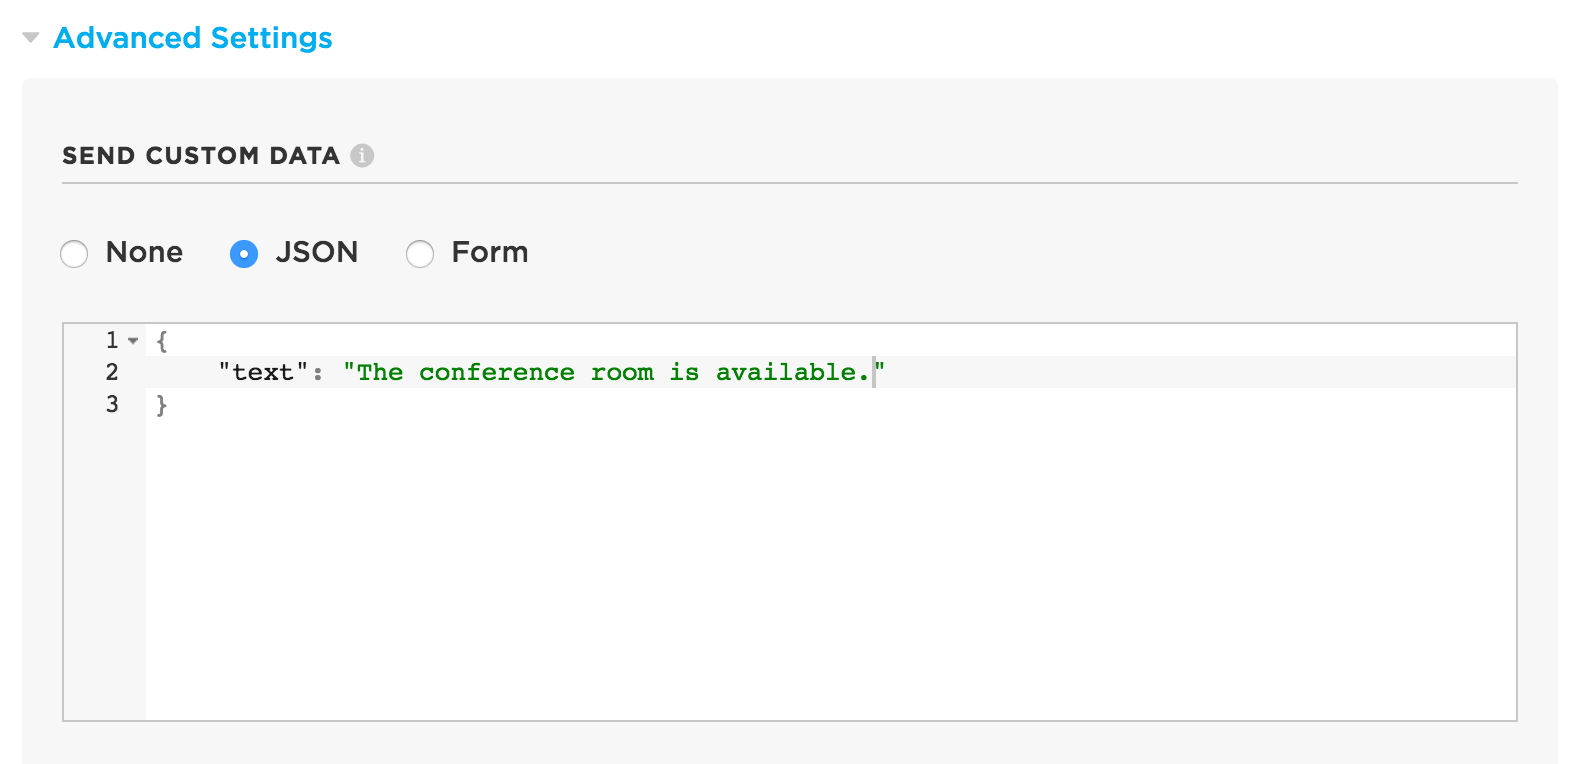
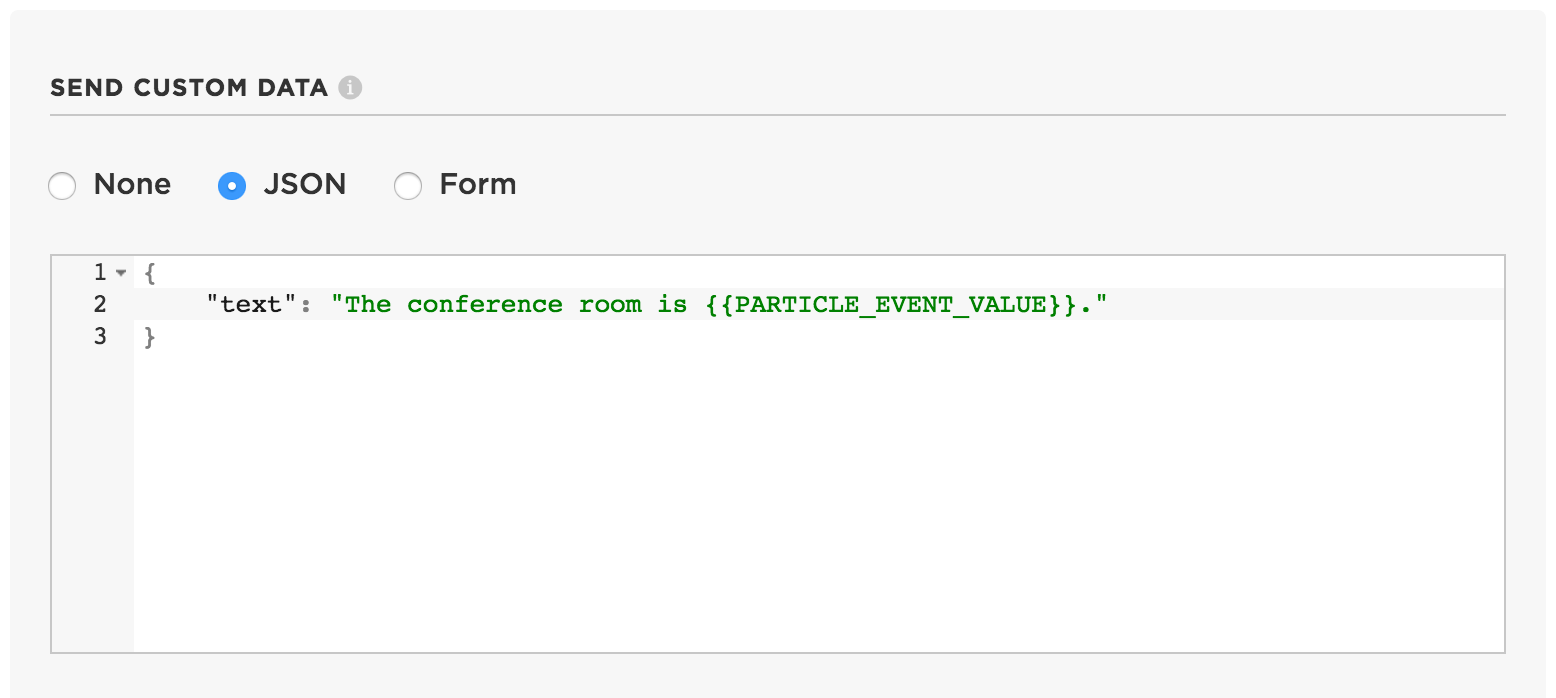
Updated tutorial 3 with new images

diff --git a/src/content/tutorials/topics/maker-kit.md b/src/content/tutorials/topics/maker-kit.md
@@ -171,9 +171,16 @@ Discover more projects at [particle.hackster.io](http://particle.hackster.io), a
 
 
 
-## Tutorial #2: Display next bus time on the OLED screen
+## Tutorial #2: Next Bus Alert
 
-Welcome to the second tutorial in our Maker Kit tutorial series. In this tutorial, you’ll use Particle webhooks to get the estimated time until the bus comes to a stop of your choosing. Then you’ll display it on the Maker Kit OLED screen with fancy marquee scrolling, which is made possible by the use of a software timer.
+In this tutorial, you’ll learn how to to get bus prediction times from the internet and display them on the Maker Kit OLED screen. You'll learn what a webhook is, and how to use it to get the prediction data to your Photon. Lastly, you'll wire up the OLED screen and display the bus alerts with fancy marquee scrolling. Here's how:
+* Discover your bus prediction URL
+* Set up a webhook
+* Subscribe to the webhook from the Photon
+* Add the library for the OLED screen
+* Wire up the OLED screen and display bus times
+
+
 
 ### Discover your prediction URL
 
@@ -280,6 +287,8 @@ First we’ll load the example code for this project:
 * Click example #2
 * Click **Use This Example**
 
+Here's the code:
+
 ```
 /*****************************************************************************
 Particle Maker Kit Tutorial #2: Next Bus Alert
@@ -287,11 +296,11 @@ Particle Maker Kit Tutorial #2: Next Bus Alert
 This tutorial uses a Particle Photon and the OLED screen from the Particle
 Maker Kit. It uses a webhook to retrieve bus prediction times from the
 NextBus Public XML feed, which must be set up first along with the webhook.
-See [http://docs.particle.io/tutorials/maker-kit/] to learn how!
-******************************************************************************/
+See http://docs.particle.io/tutorials/topics/maker-kit to learn how!
 
-#include "Adafruit_SSD1306/Adafruit_GFX.h"
-#include "Adafruit_SSD1306/Adafruit_SSD1306.h"
+NOTE: This code example requires the Adafruit_SSD1306 library to be included,
+so make sure to add it via the Libraries tab in the left sidebar.
+******************************************************************************/
 
 // use hardware SPI
 #define OLED_DC     D3
@@ -300,10 +309,11 @@ See [http://docs.particle.io/tutorials/maker-kit/] to learn how!
 Adafruit_SSD1306 display(OLED_DC, OLED_RESET, OLED_CS);
 
 String busName = "57"; // name of your bus -- FILL THIS IN!
-int leadTime = 5; // #minute you need to get to your bus -- FILL THIS IN!
+int leadTime = 5; // #minutes you need to get to your bus -- FILL THIS IN!
 int soonestBusTime = 99; // #minutes until next bus (99 is a placeholder)
-int nextSoonestBusTime = 88; // #minutes until bus after next (88 = placeholder)
-int gaveWarning = false; // to make sure we don't give bus warning too often
+int nextSoonestBusTime = 88; // #minutes until bus after next (88 is a placeholder)
+String soonestStr, nextSoonestStr; // strings for parsing
+int gaveWarning = false; // variable to make sure we don't give bus warning too often
 int  x, minX; // variables for scrolling code
 
 void getBusTimes() {
@@ -314,33 +324,31 @@ void getBusTimes() {
 // create a software timer to get new prediction times every minute
 Timer timer(60000, getBusTimes);
 
-// create another software timer to reset the warning beep so it only beeps
-// once per bus that's close by
-//Timer timer2(leadTime*60000, resetWarning);
+void setup()   {
+  // start the data retrieval timer
+  timer.start();
 
-void setup()   {                
-  Serial.begin(9600);
-
-  //retrieve the webhook data and send it to the gotNextBusData function
+  //subscribe to the get_nextbus event so we can get the data from the webhook
   Particle.subscribe("hook-response/get_nextbus/0", gotNextBusData, MY_DEVICES);
 
-  // by default, we'll generate the high voltage from the 3.3v line internally!
+  Particle.publish("get_nextbus"); // publish the event to trigger the data
+  delay(2000); // wait for data to arrive
+
+  // by default, we'll generate the high voltage from the 3.3v line internally! (neat!)
   display.begin(SSD1306_SWITCHCAPVCC);
 
   display.setTextSize(7);       // text size
   display.setTextColor(WHITE); // text color
   display.setTextWrap(false); // turn off text wrapping so we can do scrolling
-  x    = display.width(); // set x to display width
-  minX = -1500; // 1500 = 6 pixels/character * text size 7 * 15 chars * 2x slow
-
-  timer.start(); // start the data retrieval timer
+  x    = display.width(); // set scrolling frame to display width
+  minX = -1500; // 630 = 6 pixels/character * text size 7 * 15 characters * 2x slower
 }
 
 void loop() {
 
-  // this code displays next bus times on the OLED screen with fancy scrolling
+  // this code displays the next bus times on the OLED screen with fancy scrolling
   display.clearDisplay();
-  display.setCursor(x/2, 8);
+  display.setCursor(x/2, 7);
   display.print(busName);
   display.print(" in ");
   display.print(soonestBusTime);
@@ -351,7 +359,7 @@ void loop() {
   if(--x < minX) x = display.width()*2;
 
   // give a "time to leave!" beeping warning, but only once per bus
-  if(soonestBusTime < leadTime && gaveWarning == false)
+  if(soonestBusTime <= leadTime && gaveWarning == false)
   {
       for (int i=0; i<3; i++)
       {
@@ -364,7 +372,7 @@ void loop() {
   // reset the beeping warning flag so we can warn about the next bus
   else if(soonestBusTime > leadTime && gaveWarning == true)
   {
-      gaveWarning == false;
+      gaveWarning = false;
   }
 }
 
@@ -375,21 +383,18 @@ void gotNextBusData(const char *name, const char *data) {
     // put the incoming data (the XML page) into a string called "str"
     String str = String(data);
 
-    // send str to the tryExtractString function,
-    //looking for the first instance (0) of "minutes=\""
-    String soonestStr = tryExtractString(0, str, "minutes=\"", "\"");
-    // turn extracted bus time into an integer and store it in soonestBusTime
+    // send str to the tryExtractString function, looking for the first instance (0) of "minutes=\""
+    soonestStr = tryExtractString(0, str, "minutes=\"", "\"");
+    // turn the extracted bus time into an integer and store it in soonestBusTime
     soonestBusTime = soonestStr.toInt();
 
-    // send str to the tryExtractString function,
-    // looking for the second instance (1) of "minutes=\""
-    String nextSoonestStr = tryExtractString(1, str, "minutes=\"", "\"");
-    // turn extracted bus time into integer and store it in nextSoonestBusTime
+    // send str to the tryExtractString function, looking for the second instance (1) of "minutes=\""
+    nextSoonestStr = tryExtractString(1, str, "minutes=\"", "\"");
+    // turn the extracted bus time into an integer and store it in nextSoonestBusTime
     nextSoonestBusTime = nextSoonestStr.toInt();
 }
 
-// this function gets called by gotNextBusData to
-// extract the bus times from the NextBus XML page
+// this function gets called by gotNextBusData to extract the bus times from the NextBus XML page
 String tryExtractString(int matchNum, String str, const char* start, const char* end) {
     if (str == NULL) {
         return NULL;
@@ -413,15 +418,6 @@ String tryExtractString(int matchNum, String str, const char* start, const char*
 }
 ```
 
-### Fill in your bus name and lead time
-Near the top of the code above, you'll see:
-```
-String busName = "57"; // name of your bus -- FILL THIS IN!
-int leadTime = 5; // #minutes you need to get to your bus -- FILL THIS IN!
-```
-* **busName:** Later, once you set everything up, the name of your bus will display on the screen along with the prediction time. Using the example above, you would see something like `57 in 5, 15 min`. Change it to match the name of your bus.
-* **leadTime:** This is used to alert you with beeps that it's time to leave. Change it to the number of minutes you'll need in order to get comfortably to the bus stop. Don't forget to leave time to put on your shoes!
-
 ### Publish and subscribe to the webhook
 
 In the example code for this project, you’ll see
@@ -438,6 +434,15 @@ Particle.subscribe("hook-response/get_nextbus/0", gotNextBusData, MY_DEVICES);
 ```
 This line **subscribes** your device to the *get_nextbus* event, which pulls in data coming from the webhook attached to it. (The /0 tells it to reference the first chunk of data, since there are a few of them.) It then sends that data to a function called *gotNextBusData*, which parses all the XML and pulls out the tiny bits we need, which are the number of **minutes** for the next two buses. See our [publish and subscribe](https://docs.particle.io/guide/getting-started/examples/photon/#the-buddy-system-publish-and-subscribe) guide for more info on publishing and subscribing.
 
+### Fill in your bus name and lead time
+Near the top of the code above, you'll see:
+```
+String busName = "57"; // name of your bus -- FILL THIS IN!
+int leadTime = 5; // #minutes you need to get to your bus -- FILL THIS IN!
+```
+* **busName:** Later, once you set everything up, the name of your bus will display on the screen along with the prediction time. Using the example above, you would see something like `57 in 5, 15 min`. Change it to match the name of your bus.
+* **leadTime:** This is used to alert you with beeps that it's time to leave. Change it to the number of minutes you'll need in order to get comfortably to the bus stop. Don't forget to leave time to put on your shoes!
+
 ### Connecting the OLED screen
 Now that the webhook is ready, we can connect the **OLED screen**. We'll start by adding the OLED screen library to our project:
 * Click the **Libraries** icon on the left sidebar
@@ -447,7 +452,7 @@ Now that the webhook is ready, we can connect the **OLED screen**. We'll start b
 * Select your code to add the library to
 * Click **Add to This App**
 
-Now for the hardware. Press the OLED screen into the breadboard, then connect the pins according to this diagram.
+Now for the hardware. Press the OLED screen into the breadboard, making sure the pins go in separate rows (i.e. 24-30), not all in the same row. Then connect the pins according to this diagram:
 
 ![Fritzing diagram - how to hook up the Particle Photon to the Maker Kit LED screen](/assets/images/nextbus-fritzing.png)
 
@@ -463,9 +468,9 @@ Wiring (Photon ⇒ OLED screen):
 Then press the piezo buzzer into the breadboard and connect the long pin to D0 and the short pin to GND. The long pin has a plus sign engraved over it on the top of the buzzer.
 
 ### Upload and test!
-Plug in your Photon and upload the code! If all goes well, the screen will immediately start scrolling `[bus number] in xx and yy min`, where xx and yy are the times for the next two buses.
+Plug in your Photon and upload the code! If all goes well, the screen will immediately start scrolling `[bus number] in xx and yy min`, where `xx` and `yy` are the times for the next two buses.
 
-[GIF of scrolling]
+<img src="/assets/images/nextbus-alert-scrolling.gif" alt="Next bus alerts scrolling on the OLED screen with a Particle Photon" style="width: 433px;" />
 
 ### Additional reading: software timer
 If you're interested in how we're able to have scrolling code that runs constantly in our *loop()* function, yet still be able to trigger the webhook every 60 seconds, the reason is that we're using a **software timer**. Software timers are hugely powerful because they allow functions to be triggered independently of other code. It's possible to do this without a software timer by using *millis()*, but a bonafide software timer makes it much neater.
@@ -528,29 +533,27 @@ Scroll down to **Integration Settings** and give your webhook a descriptive labe
 ![Add a new Slack webhook](/assets/images/conf-add-slack-webhook4.png)
 
 ### Create Particle webhooks
-Many Slack integrations require dedicated web servers running PHP scripts to process information to and from Slack. However, in our case we can just use Particle webhooks to talk to the Slack webhook, and create our integration with ease. We’ll make one webhook to tell Slack that the conference room is available, and another webhook to tell Slack that the conference room is in use.
+Many Slack integrations require dedicated web servers running PHP scripts to process information to and from Slack. However, in our case we can just use a Particle webhook to tell the Slack webhook whether the conference room is available. Easy!
 
 Go to the [Particle Dashboard](http://dashboard.particle.io) and click the **Integrations** tab, then click **New Integration**.
 ![Add a new Particle webhook](/assets/images/conf-add-particle-webhook0.png)
 
-Click **Webhook** to get to the Webhook Builder.
+Click **Webhook** to start the Webhook Builder.
 ![Add a new Particle webhook](/assets/images/conf-add-particle-webhook1.png)
 
-Now we’ll make a webhook that tells Slack the conference room is available. In the Webhook Builder, under **Event Name**, enter `conf_avail`. Then paste your Slack webhook URL under **URL**.
+In the Webhook Builder under **Event Name**, enter `conf_avail`. Then paste your Slack webhook URL under **URL**.
 ![Add a new Particle webhook](/assets/images/conf-add-particle-webhook2.png)
 
 Expand **Advanced Settings** and choose **JSON**. Paste the following code:
+![Add a new Particle webhook](/assets/images/conf-add-particle-webhook3.png)
 ```
 {
-	“text”: “The conference room is available.”
+	"text": "The conference room is \{{PARTICLE_EVENT_VALUE}}."
 }
 ```
-![Add a new Particle webhook](/assets/images/conf-add-particle-webhook3.png)
+The \{{PARTICLE_EVENT_VALUE}} field gets filled with the data sent when the event is published by the device. In this case, the data will be the "status" variable, which will contain either "in use" or "available".
 
 Then Scroll down to the bottom and hit **Create Webhook**.
-
-Great! Now **repeat the process again** to create the second webhook, but use `conf_inuse` as the event name, and change the text to say `The conference room is in use.`
-![Add a new Particle webhook](/assets/images/conf-add-particle-webhook4.png)
 
 ### Photon → Webhook Code
 Now we'll look at the code used to activate the webhook from a Photon. Here's all the code used in the project:
